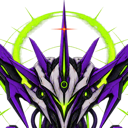
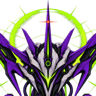
Stop paying for pixels the mark never shows
The header mark shipped at 128 px for a 34 px slot — four times what
anyone sees, 37 KB of it. At 96 px it is 22 KB and looks identical,
because 96 is still nearly three times the display size.

Worth checking what the largest paint actually was before blaming the
logo: it is a paragraph, P.summary, not an image at all. It waits on
the card screenshots competing for a 1.6 Mbit link. The mark was fourth
by weight, not first.

diff --git a/rasskazy/bag-v-sudbe/index.html b/rasskazy/bag-v-sudbe/index.html
@@ -18,7 +18,7 @@
     <div class="reader-progress" aria-hidden="true"><i></i></div>
 
       <header class="topbar">
-        <a class="brand" href="/"><img class="brand-znak" src="/assets/znak.png?v=5ca84eef" alt="" width="128" height="128" decoding="async">aka<span>-</span>gst</a>
+        <a class="brand" href="/"><img class="brand-znak" src="/assets/znak.png?v=3b02c273" alt="" width="96" height="96" decoding="async">aka<span>-</span>gst</a>
         <div class="track-switch" role="group" aria-label="Разделы сайта">
           <a href="/#work"><svg viewBox="0 0 24 24" width="16" height="16" fill="none" stroke="currentColor"
      stroke-width="1.6" stroke-linecap="round" stroke-linejoin="round" aria-hidden="true"><path d="M4 17l5-5-5-5" /><path d="M12 19h8" /></svg><span>Работа</span></a>

diff --git a/rasskazy/blizorukiy-toropyga/index.html b/rasskazy/blizorukiy-toropyga/index.html
@@ -18,7 +18,7 @@
     <div class="reader-progress" aria-hidden="true"><i></i></div>
 
       <header class="topbar">
-        <a class="brand" href="/"><img class="brand-znak" src="/assets/znak.png?v=5ca84eef" alt="" width="128" height="128" decoding="async">aka<span>-</span>gst</a>
+        <a class="brand" href="/"><img class="brand-znak" src="/assets/znak.png?v=3b02c273" alt="" width="96" height="96" decoding="async">aka<span>-</span>gst</a>
         <div class="track-switch" role="group" aria-label="Разделы сайта">
           <a href="/#work"><svg viewBox="0 0 24 24" width="16" height="16" fill="none" stroke="currentColor"
      stroke-width="1.6" stroke-linecap="round" stroke-linejoin="round" aria-hidden="true"><path d="M4 17l5-5-5-5" /><path d="M12 19h8" /></svg><span>Работа</span></a>

diff --git a/rasskazy/chetvertaya-stena/index.html b/rasskazy/chetvertaya-stena/index.html
@@ -18,7 +18,7 @@
     <div class="reader-progress" aria-hidden="true"><i></i></div>
 
       <header class="topbar">
-        <a class="brand" href="/"><img class="brand-znak" src="/assets/znak.png?v=5ca84eef" alt="" width="128" height="128" decoding="async">aka<span>-</span>gst</a>
+        <a class="brand" href="/"><img class="brand-znak" src="/assets/znak.png?v=3b02c273" alt="" width="96" height="96" decoding="async">aka<span>-</span>gst</a>
         <div class="track-switch" role="group" aria-label="Разделы сайта">
           <a href="/#work"><svg viewBox="0 0 24 24" width="16" height="16" fill="none" stroke="currentColor"
      stroke-width="1.6" stroke-linecap="round" stroke-linejoin="round" aria-hidden="true"><path d="M4 17l5-5-5-5" /><path d="M12 19h8" /></svg><span>Работа</span></a>

diff --git a/rasskazy/free-exe/index.html b/rasskazy/free-exe/index.html
@@ -18,7 +18,7 @@
     <div class="reader-progress" aria-hidden="true"><i></i></div>
 
       <header class="topbar">
-        <a class="brand" href="/"><img class="brand-znak" src="/assets/znak.png?v=5ca84eef" alt="" width="128" height="128" decoding="async">aka<span>-</span>gst</a>
+        <a class="brand" href="/"><img class="brand-znak" src="/assets/znak.png?v=3b02c273" alt="" width="96" height="96" decoding="async">aka<span>-</span>gst</a>
         <div class="track-switch" role="group" aria-label="Разделы сайта">
           <a href="/#work"><svg viewBox="0 0 24 24" width="16" height="16" fill="none" stroke="currentColor"
      stroke-width="1.6" stroke-linecap="round" stroke-linejoin="round" aria-hidden="true"><path d="M4 17l5-5-5-5" /><path d="M12 19h8" /></svg><span>Работа</span></a>

diff --git a/rasskazy/letuny/index.html b/rasskazy/letuny/index.html
@@ -18,7 +18,7 @@
     <div class="reader-progress" aria-hidden="true"><i></i></div>
 
       <header class="topbar">
-        <a class="brand" href="/"><img class="brand-znak" src="/assets/znak.png?v=5ca84eef" alt="" width="128" height="128" decoding="async">aka<span>-</span>gst</a>
+        <a class="brand" href="/"><img class="brand-znak" src="/assets/znak.png?v=3b02c273" alt="" width="96" height="96" decoding="async">aka<span>-</span>gst</a>
         <div class="track-switch" role="group" aria-label="Разделы сайта">
           <a href="/#work"><svg viewBox="0 0 24 24" width="16" height="16" fill="none" stroke="currentColor"
      stroke-width="1.6" stroke-linecap="round" stroke-linejoin="round" aria-hidden="true"><path d="M4 17l5-5-5-5" /><path d="M12 19h8" /></svg><span>Работа</span></a>

diff --git a/rasskazy/materinskaya-plata/index.html b/rasskazy/materinskaya-plata/index.html
@@ -18,7 +18,7 @@
     <div class="reader-progress" aria-hidden="true"><i></i></div>
 
       <header class="topbar">
-        <a class="brand" href="/"><img class="brand-znak" src="/assets/znak.png?v=5ca84eef" alt="" width="128" height="128" decoding="async">aka<span>-</span>gst</a>
+        <a class="brand" href="/"><img class="brand-znak" src="/assets/znak.png?v=3b02c273" alt="" width="96" height="96" decoding="async">aka<span>-</span>gst</a>
         <div class="track-switch" role="group" aria-label="Разделы сайта">
           <a href="/#work"><svg viewBox="0 0 24 24" width="16" height="16" fill="none" stroke="currentColor"
      stroke-width="1.6" stroke-linecap="round" stroke-linejoin="round" aria-hidden="true"><path d="M4 17l5-5-5-5" /><path d="M12 19h8" /></svg><span>Работа</span></a>

diff --git a/rasskazy/myasnaya-konserva/index.html b/rasskazy/myasnaya-konserva/index.html
@@ -18,7 +18,7 @@
     <div class="reader-progress" aria-hidden="true"><i></i></div>
 
       <header class="topbar">
-        <a class="brand" href="/"><img class="brand-znak" src="/assets/znak.png?v=5ca84eef" alt="" width="128" height="128" decoding="async">aka<span>-</span>gst</a>
+        <a class="brand" href="/"><img class="brand-znak" src="/assets/znak.png?v=3b02c273" alt="" width="96" height="96" decoding="async">aka<span>-</span>gst</a>
         <div class="track-switch" role="group" aria-label="Разделы сайта">
           <a href="/#work"><svg viewBox="0 0 24 24" width="16" height="16" fill="none" stroke="currentColor"
      stroke-width="1.6" stroke-linecap="round" stroke-linejoin="round" aria-hidden="true"><path d="M4 17l5-5-5-5" /><path d="M12 19h8" /></svg><span>Работа</span></a>

diff --git a/rasskazy/nachinka/index.html b/rasskazy/nachinka/index.html
@@ -18,7 +18,7 @@
     <div class="reader-progress" aria-hidden="true"><i></i></div>
 
       <header class="topbar">
-        <a class="brand" href="/"><img class="brand-znak" src="/assets/znak.png?v=5ca84eef" alt="" width="128" height="128" decoding="async">aka<span>-</span>gst</a>
+        <a class="brand" href="/"><img class="brand-znak" src="/assets/znak.png?v=3b02c273" alt="" width="96" height="96" decoding="async">aka<span>-</span>gst</a>
         <div class="track-switch" role="group" aria-label="Разделы сайта">
           <a href="/#work"><svg viewBox="0 0 24 24" width="16" height="16" fill="none" stroke="currentColor"
      stroke-width="1.6" stroke-linecap="round" stroke-linejoin="round" aria-hidden="true"><path d="M4 17l5-5-5-5" /><path d="M12 19h8" /></svg><span>Работа</span></a>

diff --git a/rasskazy/ne-poteryaysya/index.html b/rasskazy/ne-poteryaysya/index.html
@@ -18,7 +18,7 @@
     <div class="reader-progress" aria-hidden="true"><i></i></div>
 
       <header class="topbar">
-        <a class="brand" href="/"><img class="brand-znak" src="/assets/znak.png?v=5ca84eef" alt="" width="128" height="128" decoding="async">aka<span>-</span>gst</a>
+        <a class="brand" href="/"><img class="brand-znak" src="/assets/znak.png?v=3b02c273" alt="" width="96" height="96" decoding="async">aka<span>-</span>gst</a>
         <div class="track-switch" role="group" aria-label="Разделы сайта">
           <a href="/#work"><svg viewBox="0 0 24 24" width="16" height="16" fill="none" stroke="currentColor"
      stroke-width="1.6" stroke-linecap="round" stroke-linejoin="round" aria-hidden="true"><path d="M4 17l5-5-5-5" /><path d="M12 19h8" /></svg><span>Работа</span></a>

diff --git a/rasskazy/ne-s-kem/index.html b/rasskazy/ne-s-kem/index.html
@@ -18,7 +18,7 @@
     <div class="reader-progress" aria-hidden="true"><i></i></div>
 
       <header class="topbar">
-        <a class="brand" href="/"><img class="brand-znak" src="/assets/znak.png?v=5ca84eef" alt="" width="128" height="128" decoding="async">aka<span>-</span>gst</a>
+        <a class="brand" href="/"><img class="brand-znak" src="/assets/znak.png?v=3b02c273" alt="" width="96" height="96" decoding="async">aka<span>-</span>gst</a>
         <div class="track-switch" role="group" aria-label="Разделы сайта">
           <a href="/#work"><svg viewBox="0 0 24 24" width="16" height="16" fill="none" stroke="currentColor"
      stroke-width="1.6" stroke-linecap="round" stroke-linejoin="round" aria-hidden="true"><path d="M4 17l5-5-5-5" /><path d="M12 19h8" /></svg><span>Работа</span></a>

diff --git a/rasskazy/poddatsya/index.html b/rasskazy/poddatsya/index.html
@@ -18,7 +18,7 @@
     <div class="reader-progress" aria-hidden="true"><i></i></div>
 
       <header class="topbar">
-        <a class="brand" href="/"><img class="brand-znak" src="/assets/znak.png?v=5ca84eef" alt="" width="128" height="128" decoding="async">aka<span>-</span>gst</a>
+        <a class="brand" href="/"><img class="brand-znak" src="/assets/znak.png?v=3b02c273" alt="" width="96" height="96" decoding="async">aka<span>-</span>gst</a>
         <div class="track-switch" role="group" aria-label="Разделы сайта">
           <a href="/#work"><svg viewBox="0 0 24 24" width="16" height="16" fill="none" stroke="currentColor"
      stroke-width="1.6" stroke-linecap="round" stroke-linejoin="round" aria-hidden="true"><path d="M4 17l5-5-5-5" /><path d="M12 19h8" /></svg><span>Работа</span></a>

diff --git a/rasskazy/potom-vykinem/index.html b/rasskazy/potom-vykinem/index.html
@@ -18,7 +18,7 @@
     <div class="reader-progress" aria-hidden="true"><i></i></div>
 
       <header class="topbar">
-        <a class="brand" href="/"><img class="brand-znak" src="/assets/znak.png?v=5ca84eef" alt="" width="128" height="128" decoding="async">aka<span>-</span>gst</a>
+        <a class="brand" href="/"><img class="brand-znak" src="/assets/znak.png?v=3b02c273" alt="" width="96" height="96" decoding="async">aka<span>-</span>gst</a>
         <div class="track-switch" role="group" aria-label="Разделы сайта">
           <a href="/#work"><svg viewBox="0 0 24 24" width="16" height="16" fill="none" stroke="currentColor"
      stroke-width="1.6" stroke-linecap="round" stroke-linejoin="round" aria-hidden="true"><path d="M4 17l5-5-5-5" /><path d="M12 19h8" /></svg><span>Работа</span></a>
